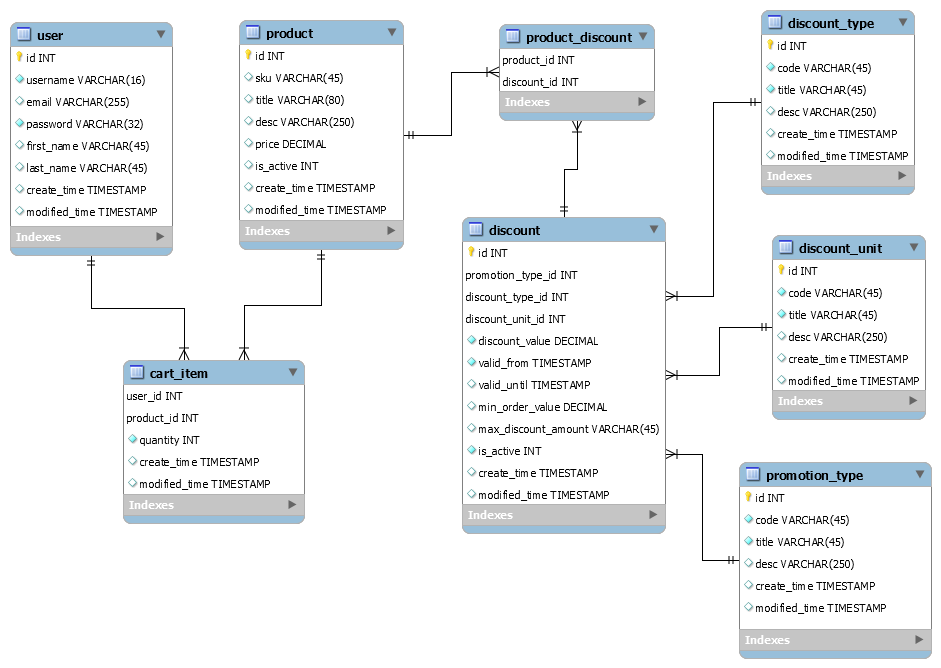
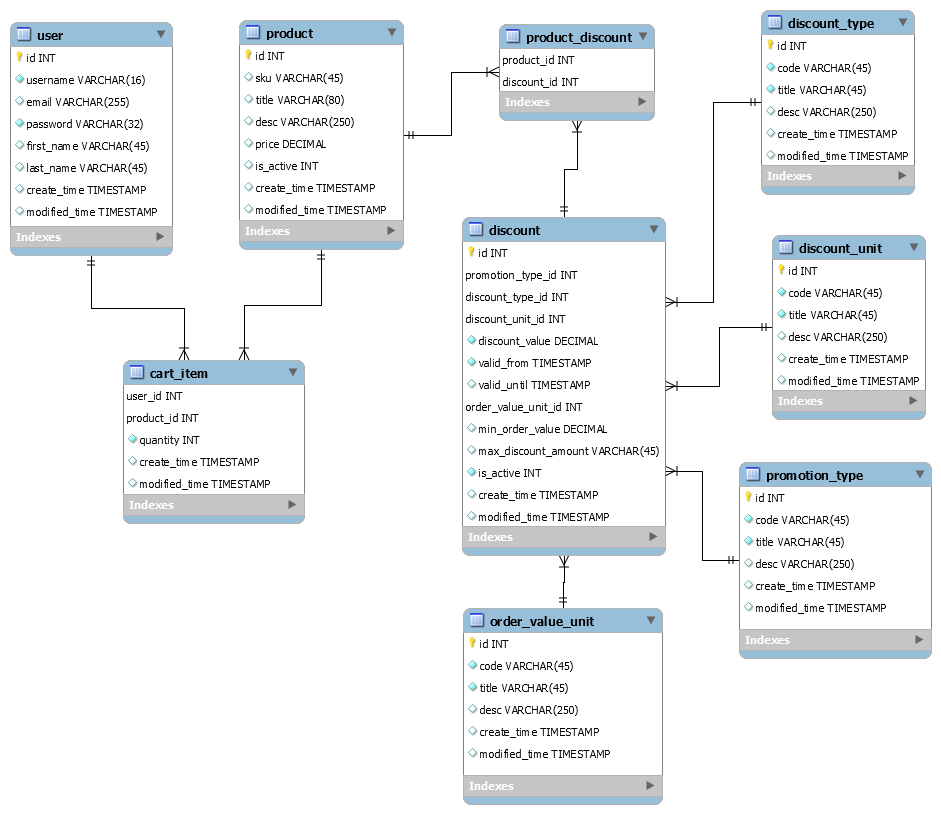
Fetch cart details & cart summary API, Clear cart API

diff --git a/src/controllers/order-controller.js b/src/controllers/order-controller.js
@@ -1,13 +1,133 @@
 const orderController = async (repositories) => {
   const orderRepository = await repositories.orderRepo;
 
-  async function _getTotalDiscount(cartItems) {
-    let totalDiscount;
-    let discountDetails;
+  async function _calculateProdDiscounts(cartItems) {
+    let appliedProdDiscounts = [];
 
-    let updatedCartItemsFromDiscount = cartItems;
+    for (let item of cartItems) {
+      let discount = item.product_discounts.reduce((sum, currentDisc) => {
+        let appliedDiscAmount = 0;
+        switch (parseInt(currentDisc.promotion_type_id)) {
+          case 5:
+            if (currentDisc.order_value_unit_id == 1) {
+              const discMultiples =
+                Math.floor(item.quantity / currentDisc.min_order_value) ?? 0;
+              // const remainingQuantity = quantity % minValue;
 
-    return { totalDiscount, discountDetails, updatedCartItemsFromDiscount };
+              if (discMultiples > 0) {
+                let priceToBeDiscounted =
+                  parseFloat(currentDisc.discount_value) * discMultiples;
+                let maxPriceToBeDiscounted = currentDisc?.max_discount_amount;
+                if (
+                  maxPriceToBeDiscounted &&
+                  maxPriceToBeDiscounted > 0 &&
+                  priceToBeDiscounted > maxPriceToBeDiscounted
+                ) {
+                  appliedDiscAmount = maxPriceToBeDiscounted;
+                } else {
+                  appliedDiscAmount = priceToBeDiscounted;
+                }
+              }
+            }
+            break;
+
+          default:
+            break;
+        }
+        Object.assign(currentDisc, { applied_disc_amount: appliedDiscAmount });
+        if (appliedDiscAmount > 0) appliedProdDiscounts.push(currentDisc);
+        return sum + appliedDiscAmount;
+      }, 0);
+      item.discount = discount;
+      item.total_price = item.quantity * item.price - discount;
+    }
+
+    let totalProdDiscount = cartItems.reduce((sum, current) => {
+      return sum + current.discount;
+    }, 0);
+
+    return { appliedProdDiscounts, totalProdDiscount };
+  }
+
+  async function _calculateCartDiscounts(
+    cartDiscounts,
+    totalItems,
+    totalItemsQuantity,
+    totalCartPrice
+  ) {
+    let appliedCartDiscounts = [];
+    let cartDiscount = cartDiscounts.reduce((sum, currentDisc) => {
+      let appliedDiscAmount = 0;
+
+      switch (parseInt(currentDisc.promotion_type_id)) {
+        case 2:
+          if (currentDisc.order_value_unit_id == 2) {
+            if (totalCartPrice >= currentDisc.min_order_value) {
+              let priceToBeDiscounted = parseFloat(currentDisc.discount_value);
+              let maxPriceToBeDiscounted = currentDisc?.max_discount_amount;
+              if (
+                maxPriceToBeDiscounted &&
+                maxPriceToBeDiscounted > 0 &&
+                priceToBeDiscounted > maxPriceToBeDiscounted
+              ) {
+                appliedDiscAmount = maxPriceToBeDiscounted;
+              } else {
+                appliedDiscAmount = priceToBeDiscounted;
+              }
+            }
+          }
+          break;
+
+        default:
+          break;
+      }
+
+      Object.assign(currentDisc, {
+        applied_disc_amount: appliedDiscAmount,
+      });
+      if (appliedDiscAmount > 0) appliedCartDiscounts.push(currentDisc);
+
+      return sum + appliedDiscAmount;
+    }, 0);
+
+    return { appliedCartDiscounts, cartDiscount };
+  }
+
+  async function _getCartSummary(cartDetails) {
+    let { appliedProdDiscounts, totalProdDiscount } =
+      await _calculateProdDiscounts(cartDetails.cart_items);
+
+    let totalItems = cartDetails.cart_items.length;
+    let totalItemsQuantity = cartDetails.cart_items.reduce((sum, current) => {
+      return sum + current.quantity;
+    }, 0);
+    let totalCartPrice = cartDetails.cart_items.reduce((sum, current) => {
+      return sum + current.total_price;
+    }, 0);
+
+    let { appliedCartDiscounts, cartDiscount } = await _calculateCartDiscounts(
+      cartDetails.cart_discounts,
+      totalItems,
+      totalItemsQuantity,
+      totalCartPrice
+    );
+
+    let appliedDiscounts = [].concat(
+      appliedProdDiscounts,
+      appliedCartDiscounts
+    );
+
+    let totalAmountPay = totalCartPrice - cartDiscount;
+    let totalSaved = totalProdDiscount + cartDiscount;
+
+    return {
+      total_items: totalItems,
+      total_items_quantity: totalItemsQuantity,
+      total_cart_price: totalCartPrice,
+      amount_pay: totalAmountPay,
+      total_saved: totalSaved,
+      discounts_applied: appliedDiscounts,
+    };
   }
 
   async function addToCart(dbConn, userId, productId, quantity) {
@@ -19,33 +139,33 @@ const orderController = async (repositories) => {
     return addedItem;
   }
 
+  async function clearCart(dbConn, userId) {
+    let clearCart = await orderRepository
+      .removeAllProductsFromCart(dbConn, userId)
+      .catch((err) => {
+        throw Error(err);
+      });
+    return clearCart;
+  }
+
   async function fetchCart(dbConn, userId) {
-    let cartItems = await orderRepository
-      .getCartItems(dbConn, userId)
+    let cartDetails = await orderRepository
+      .getCartDetails(dbConn, userId)
       .catch((err) => {
         throw Error(err);
       });
 
-    let totalItems = cartItems.length;
-    let totalItemsQuantity = cartItems.reduce((sum, current) => {
-      return sum + current.quantity;
-    }, 0);
-
-    let { totalDiscount, discountDetails, updatedCartItemsFromDiscount } =
-      await _getTotalDiscount(cartItems);
-    cartItems = updatedCartItemsFromDiscount;
+    let cartSummary = await _getCartSummary(cartDetails);
 
     return {
-      cart_items: cartItems,
-      cart_summary: {
-        total_items: totalItems,
-        total_items_quantity: totalItemsQuantity,
-      },
+      cart_details: cartDetails,
+      cart_summary: cartSummary,
     };
   }
 
   return (obj = {
     addToCart,
+    clearCart,
     fetchCart,
   });
 };

diff --git a/src/repositories/order-repo.js b/src/repositories/order-repo.js
@@ -22,10 +22,24 @@ const orderRepo = async (dbConn) => {
     });
   }
 
-  function getCartItems(conn, userId) {
+  function removeAllProductsFromCart(conn, userId) {
     return new Promise(async (resolve, reject) => {
-      let cartItems = [];
-      cartItems = await conn
+      await conn
+        .query("DELETE FROM `cart_item` WHERE `user_id` = ?", [userId])
+        .then((removeItemFromCartRes) => {
+          return resolve({ user_id: userId });
+        })
+        .catch((err) => {
+          return reject(err.text ?? err);
+        });
+    });
+  }
+
+  function getCartDetails(conn, userId) {
+    return new Promise(async (resolve, reject) => {
+      const cart = { cart_items: [], cart_discounts: [] };
+
+      cart.cart_items = await conn
         .query(
           "SELECT ci.`user_id`, ci.`product_id`, prod.`title`, prod.`desc`, prod.`sku`, prod.`price`, ci.`quantity` FROM `cart_item` ci INNER JOIN `product` prod ON ci.`product_id` = prod.`id` AND prod.`is_active` = 1 WHERE ci.`user_id` = ?",
           [userId]
@@ -34,24 +48,37 @@ const orderRepo = async (dbConn) => {
           return reject(err.text ?? err);
         });
 
-      for (let i = 0; i < cartItems.length; i++) {
-        let productDiscounts = await conn.query(
-          "SELECT pd.`product_id`, pd.`discount_id`, disc.`promotion_type_id`, disc.`discount_type_id`, disc.`discount_unit_id`, disc.`discount_value`, disc.`valid_from`, disc.`valid_until`, disc.`min_order_value`, disc.`max_discount_amount` FROM `product_discount` pd INNER JOIN `discount` disc ON disc.`id` = pd.`discount_id` AND disc.`is_active` = 1 AND NOW() <= disc.`valid_until` WHERE pd.`product_id` = ?",
-          [cartItems[i].product_id]
-        );
-        cartItems[i].discounts =
+      for (let i = 0; i < cart.cart_items.length; i++) {
+        let productDiscounts = await conn
+          .query(
+            "SELECT disc.`id`, disc.`promotion_type_id`, pt.title AS promotion_type, disc.`discount_type_id`, dt.`title` AS discount_type, disc.`discount_unit_id`, du.`title` AS discount_unit, disc.`discount_value`, disc.`valid_from`, disc.`valid_until`, disc.`order_value_unit_id`, ovu.`title` AS order_value_unit, disc.`min_order_value`, disc.`max_discount_amount` FROM `product_discount` pd INNER JOIN `discount` disc ON disc.`id` = pd.`discount_id` AND disc.`is_active` = 1 AND NOW() <= disc.`valid_until` LEFT JOIN `promotion_type` pt ON pt.`id` = disc.`promotion_type_id` LEFT JOIN `discount_type` dt ON dt.`id` = disc.`discount_type_id` LEFT JOIN `discount_unit` du ON du.`id` = disc.`discount_unit_id` LEFT JOIN `order_value_unit` ovu ON ovu.`id` = disc.`order_value_unit_id` WHERE pd.`product_id` = ?",
+            [cart.cart_items[i].product_id]
+          )
+          .catch((err) => {
+            return reject(err.text ?? err);
+          });
+        cart.cart_items[i].product_discounts =
           productDiscounts != null && productDiscounts.length > 0
             ? productDiscounts
             : [];
       }
 
-      return resolve(cartItems);
+      cart.cart_discounts = await conn
+        .query(
+          "SELECT disc.`id`, disc.`promotion_type_id`, pt.title AS promotion_type, disc.`discount_type_id`, dt.`title` AS discount_type, disc.`discount_unit_id`, du.`title` AS discount_unit, disc.`discount_value`, disc.`valid_from`, disc.`valid_until`, disc.`order_value_unit_id`, ovu.`title` AS order_value_unit, disc.`min_order_value`, disc.`max_discount_amount` FROM `discount` disc LEFT JOIN `promotion_type` pt ON pt.`id` = disc.`promotion_type_id` LEFT JOIN `discount_type` dt ON dt.`id` = disc.`discount_type_id` LEFT JOIN `discount_unit` du ON du.`id` = disc.`discount_unit_id` LEFT JOIN `order_value_unit` ovu ON ovu.`id` = disc.`order_value_unit_id` WHERE disc.`discount_type_id` = 2 AND disc.`is_active` = 1 AND NOW() <= disc.`valid_until`"
+        )
+        .catch((err) => {
+          return reject(err.text ?? err);
+        });
+
+      return resolve(cart);
     });
   }
 
   return (obj = {
     createCartEntry,
-    getCartItems,
+    removeAllProductsFromCart,
+    getCartDetails,
   });
 };
 

diff --git a/src/routers/order-route.js b/src/routers/order-route.js
@@ -61,6 +61,32 @@ const orderRoute = async (router, dbConfig, repositories) => {
     }
     res.status(status).json(response);
   });
+
+  router.delete("/cart/clearall", async (req, res) => {
+    let dbConn;
+    const response = { status: "", message: "", data: null, error_type: "" };
+    let status;
+
+    try {
+      status = 200;
+      dbConn = await database.getDbConnection(dbConfig);
+      let userId = req.body.user_id;
+      let clearCart = await orderControllerConn.clearCart(dbConn, userId);
+      if (clearCart) {
+        response.data = clearCart;
+        response.message = "Cleared all products from cart.";
+        response.status = "success";
+      }
+    } catch (e) {
+      console.log(e);
+      status = 400;
+      response.status = "error";
+      response.message = e?.message ?? "";
+    } finally {
+      if (dbConn) await dbConn.end();
+    }
+    res.status(status).json(response);
+  });
 };
 
 module.exports = { orderRoute };
